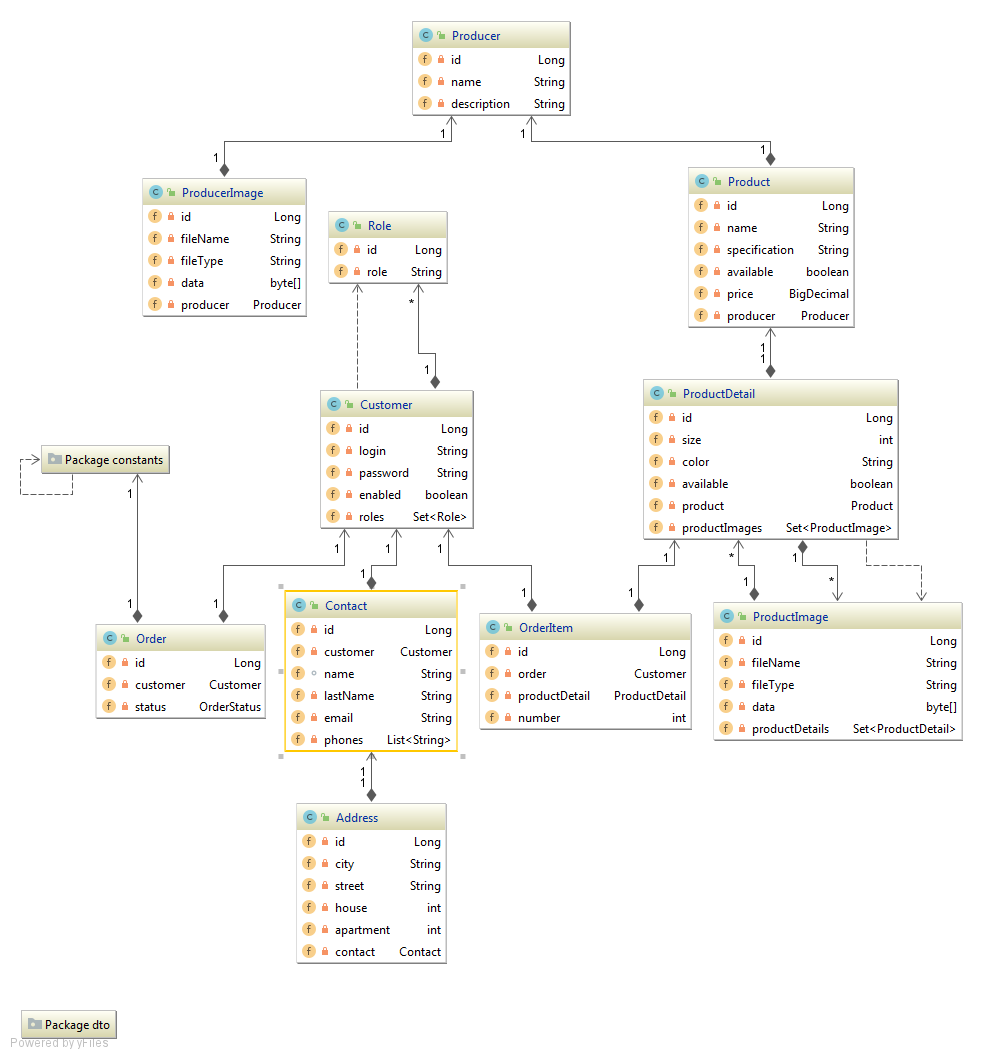
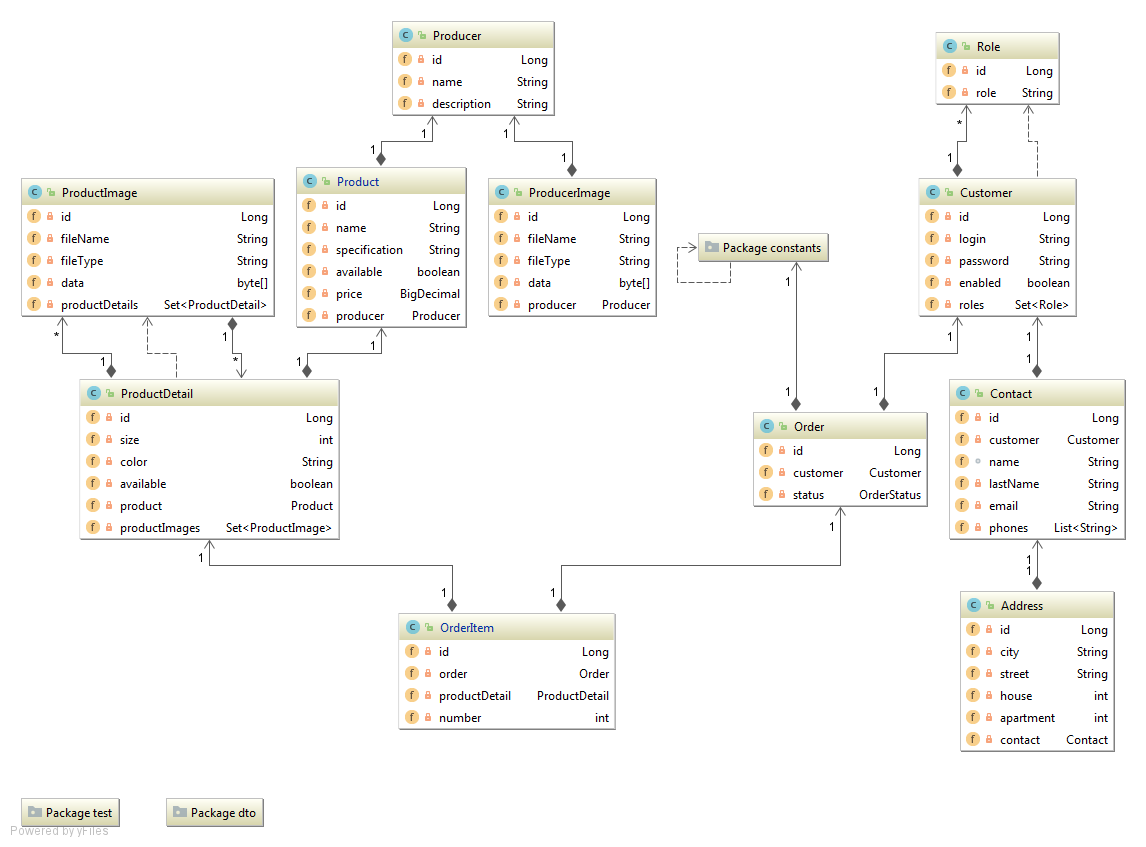
fixing {@link OrderItem}

Changed region(s): [[0.0, 0.0307, 1.0, 0.9209], [0.3354, 0.0, 0.5793, 0.1535], [0.0, 0.9516, 0.2439, 1.0]]

diff --git a/src/main/java/com/vlad/store/model/OrderItem.java b/src/main/java/com/vlad/store/model/OrderItem.java
@@ -22,7 +22,7 @@ public class OrderItem {
 
     @ManyToOne(fetch = FetchType.LAZY)
     @JoinColumn(name = "order_id")
-    private Customer order;
+    private Order order;
 
     /**
      * every order item contains common information about product and certain information about some features of product,

diff --git a/src/main/java/com/vlad/store/model/Product.java b/src/main/java/com/vlad/store/model/Product.java
@@ -7,6 +7,7 @@ import lombok.NoArgsConstructor;
 
 import javax.persistence.*;
 import java.math.BigDecimal;
+import java.util.Set;
 
 /**
  * NB: the following relations exists but didn't be reflected in this entity to avoid the loading massive data:
